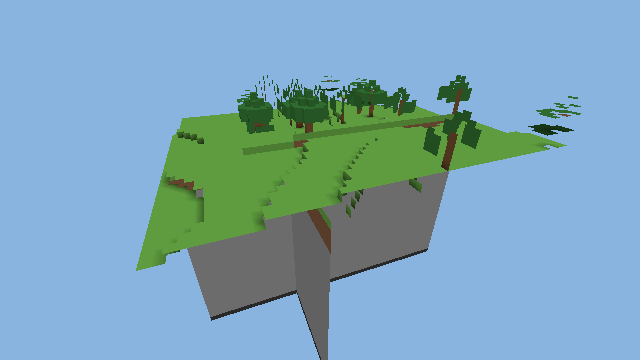
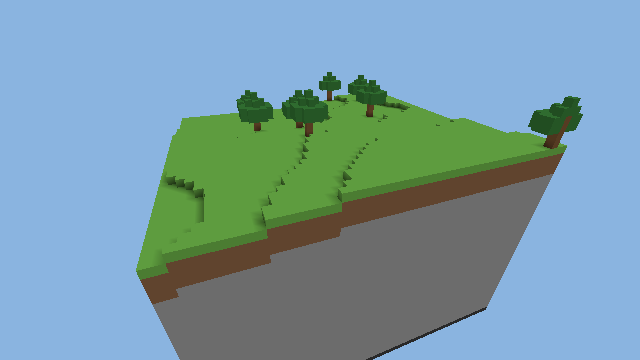
Render: fix CLI render ignoring [chunks] arg; regenerate sample_render.png with mesher fix
Old sample (seed 1234) visibly contained the displaced-face artifact (floating plates,
jutting column, garbage at top-right) from the mesher local/absolute plane mix;
regenerated image shows coherent 3x3-chunk terrain with gully + trees.
voxelcore render <out.ppm> [seed] [chunks] [px] now honors chunks as documented.

diff --git a/voxelcore/tools/voxelcore-cli/main.cpp b/voxelcore/tools/voxelcore-cli/main.cpp
@@ -68,7 +68,7 @@ int main(int argc, char** argv) {
         const char* out = (argc > 2) ? argv[2] : "voxelcore.ppm";
         const int px = (argc > 5) ? std::atoi(argv[5]) : 640;
         Stopwatch sw; sw.reset();
-        World w = generateWorld(seed, 1);
+        World w = generateWorld(seed, chunks);
         std::fprintf(stderr, "gen %.1f ms\n", sw.millis());
         GreedyMesher mesher;
         std::vector<std::pair<ChunkPos, GreedyMesher::Result>> meshes;
